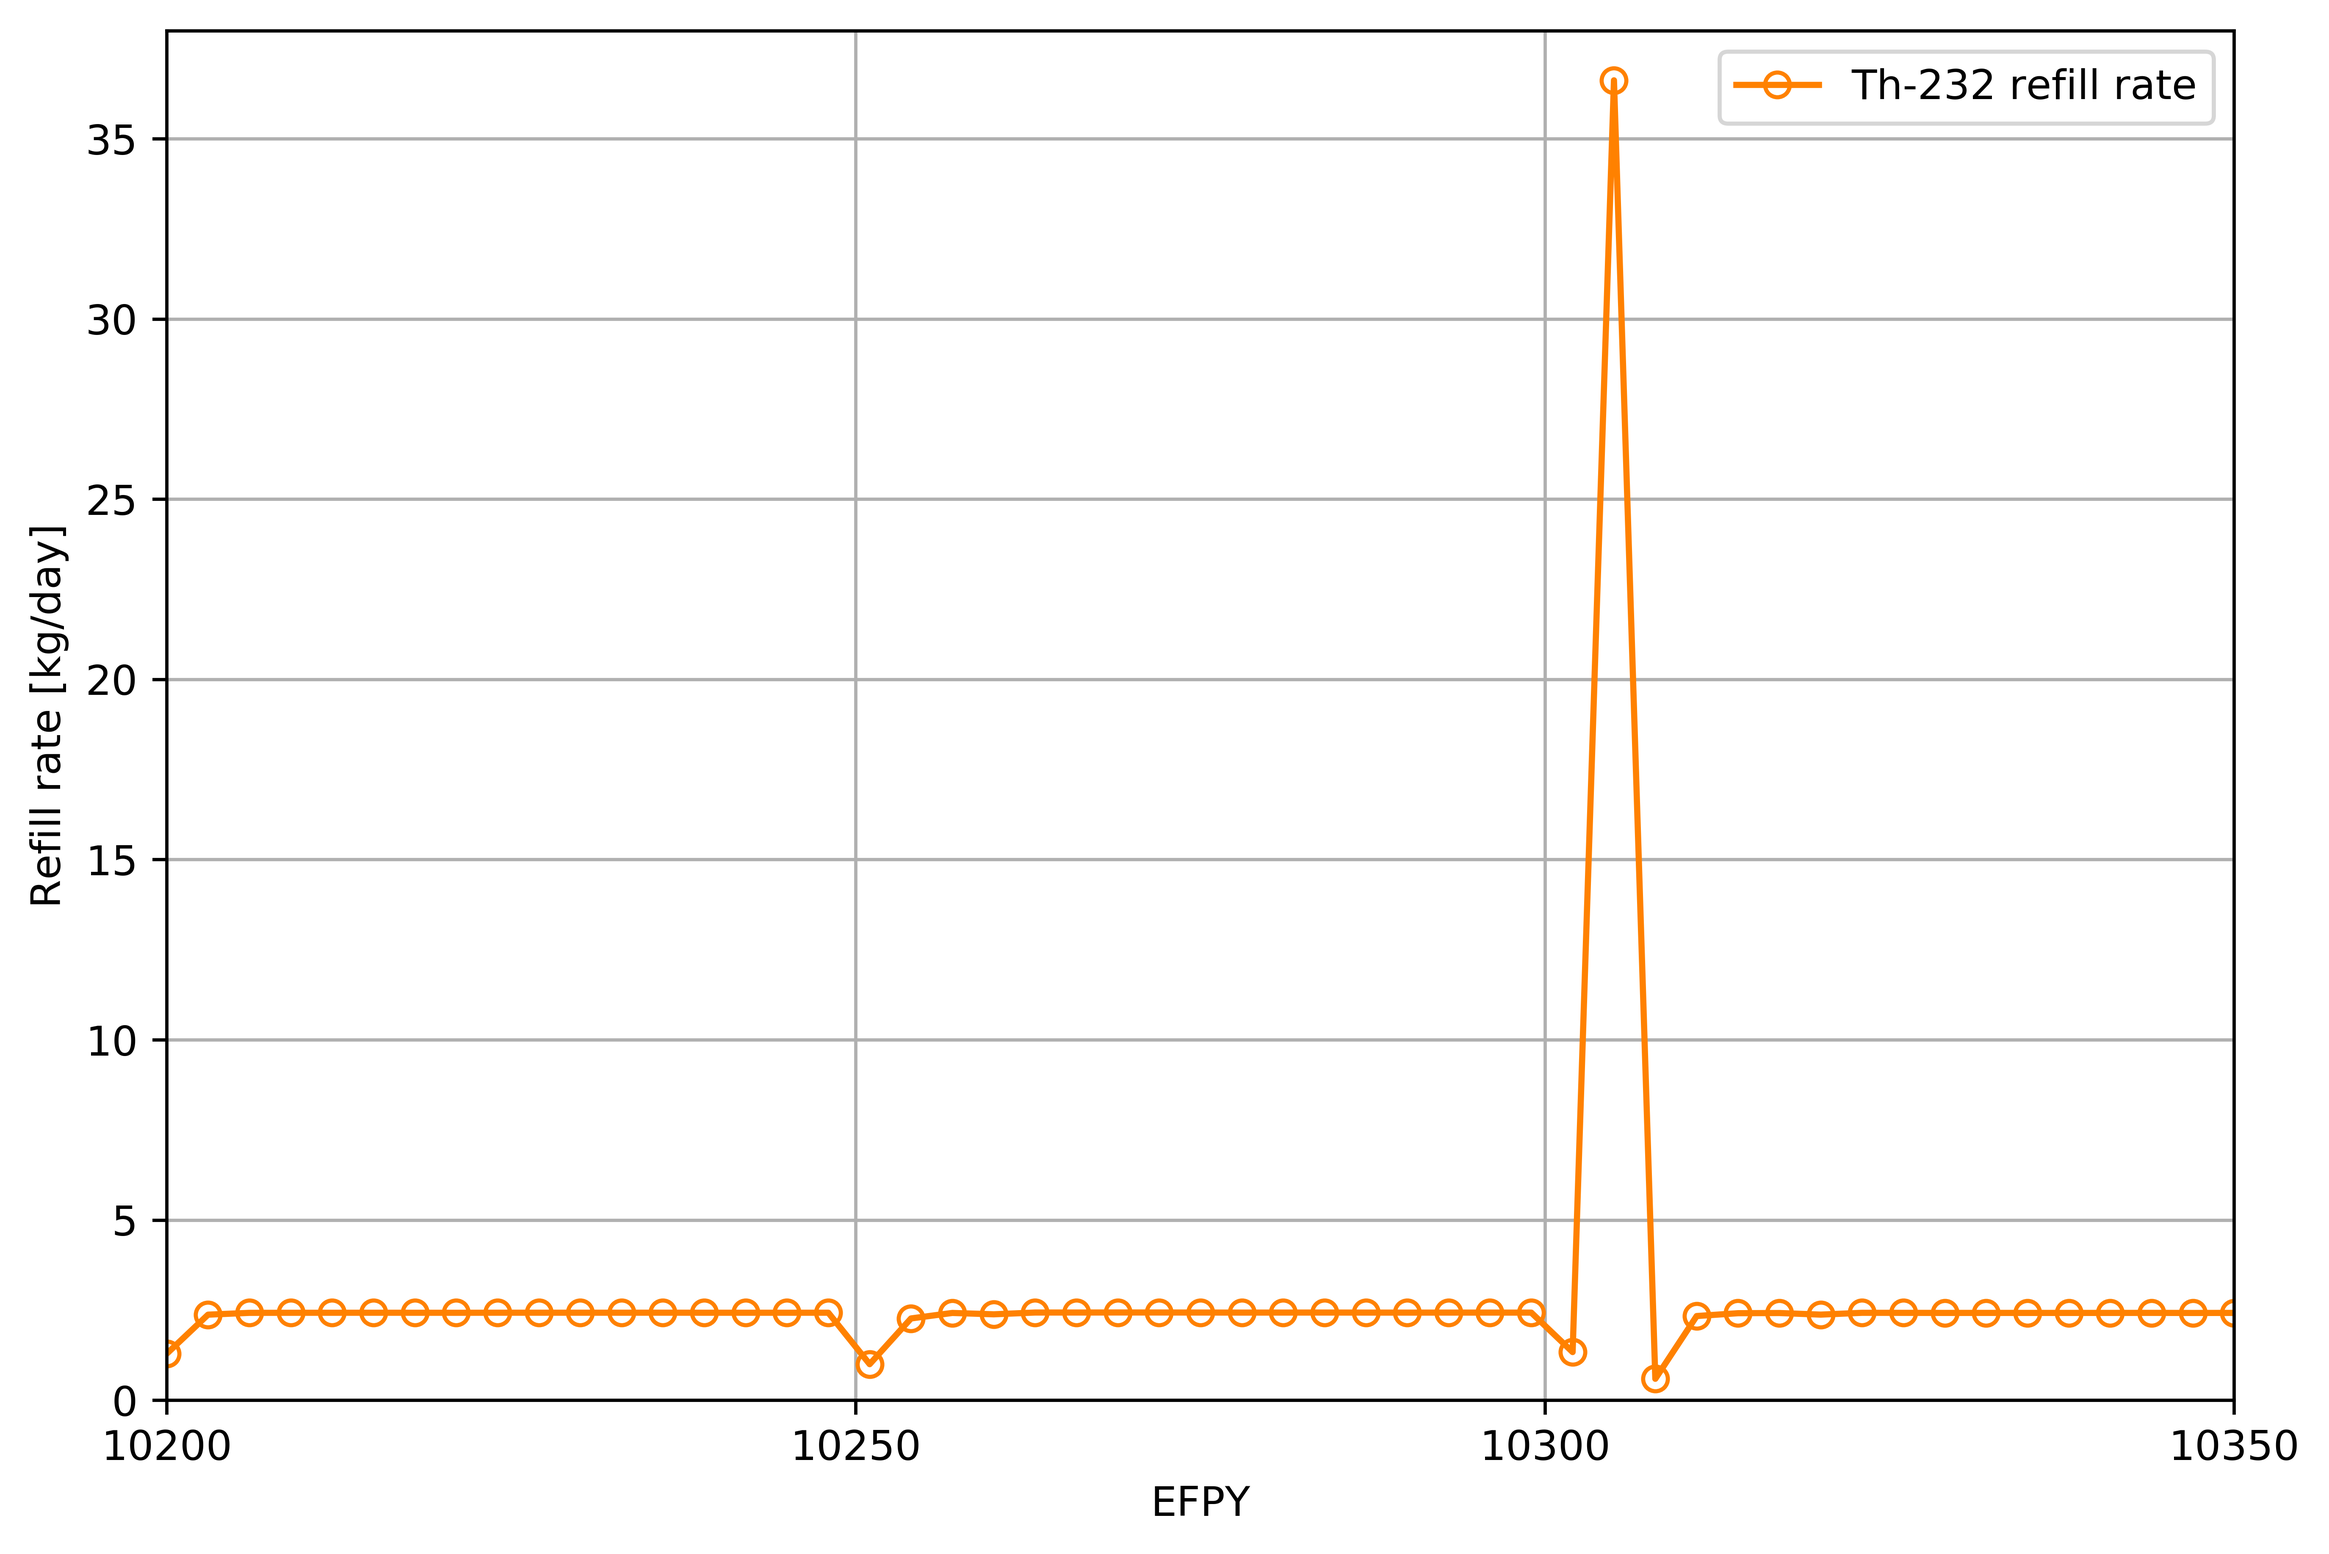
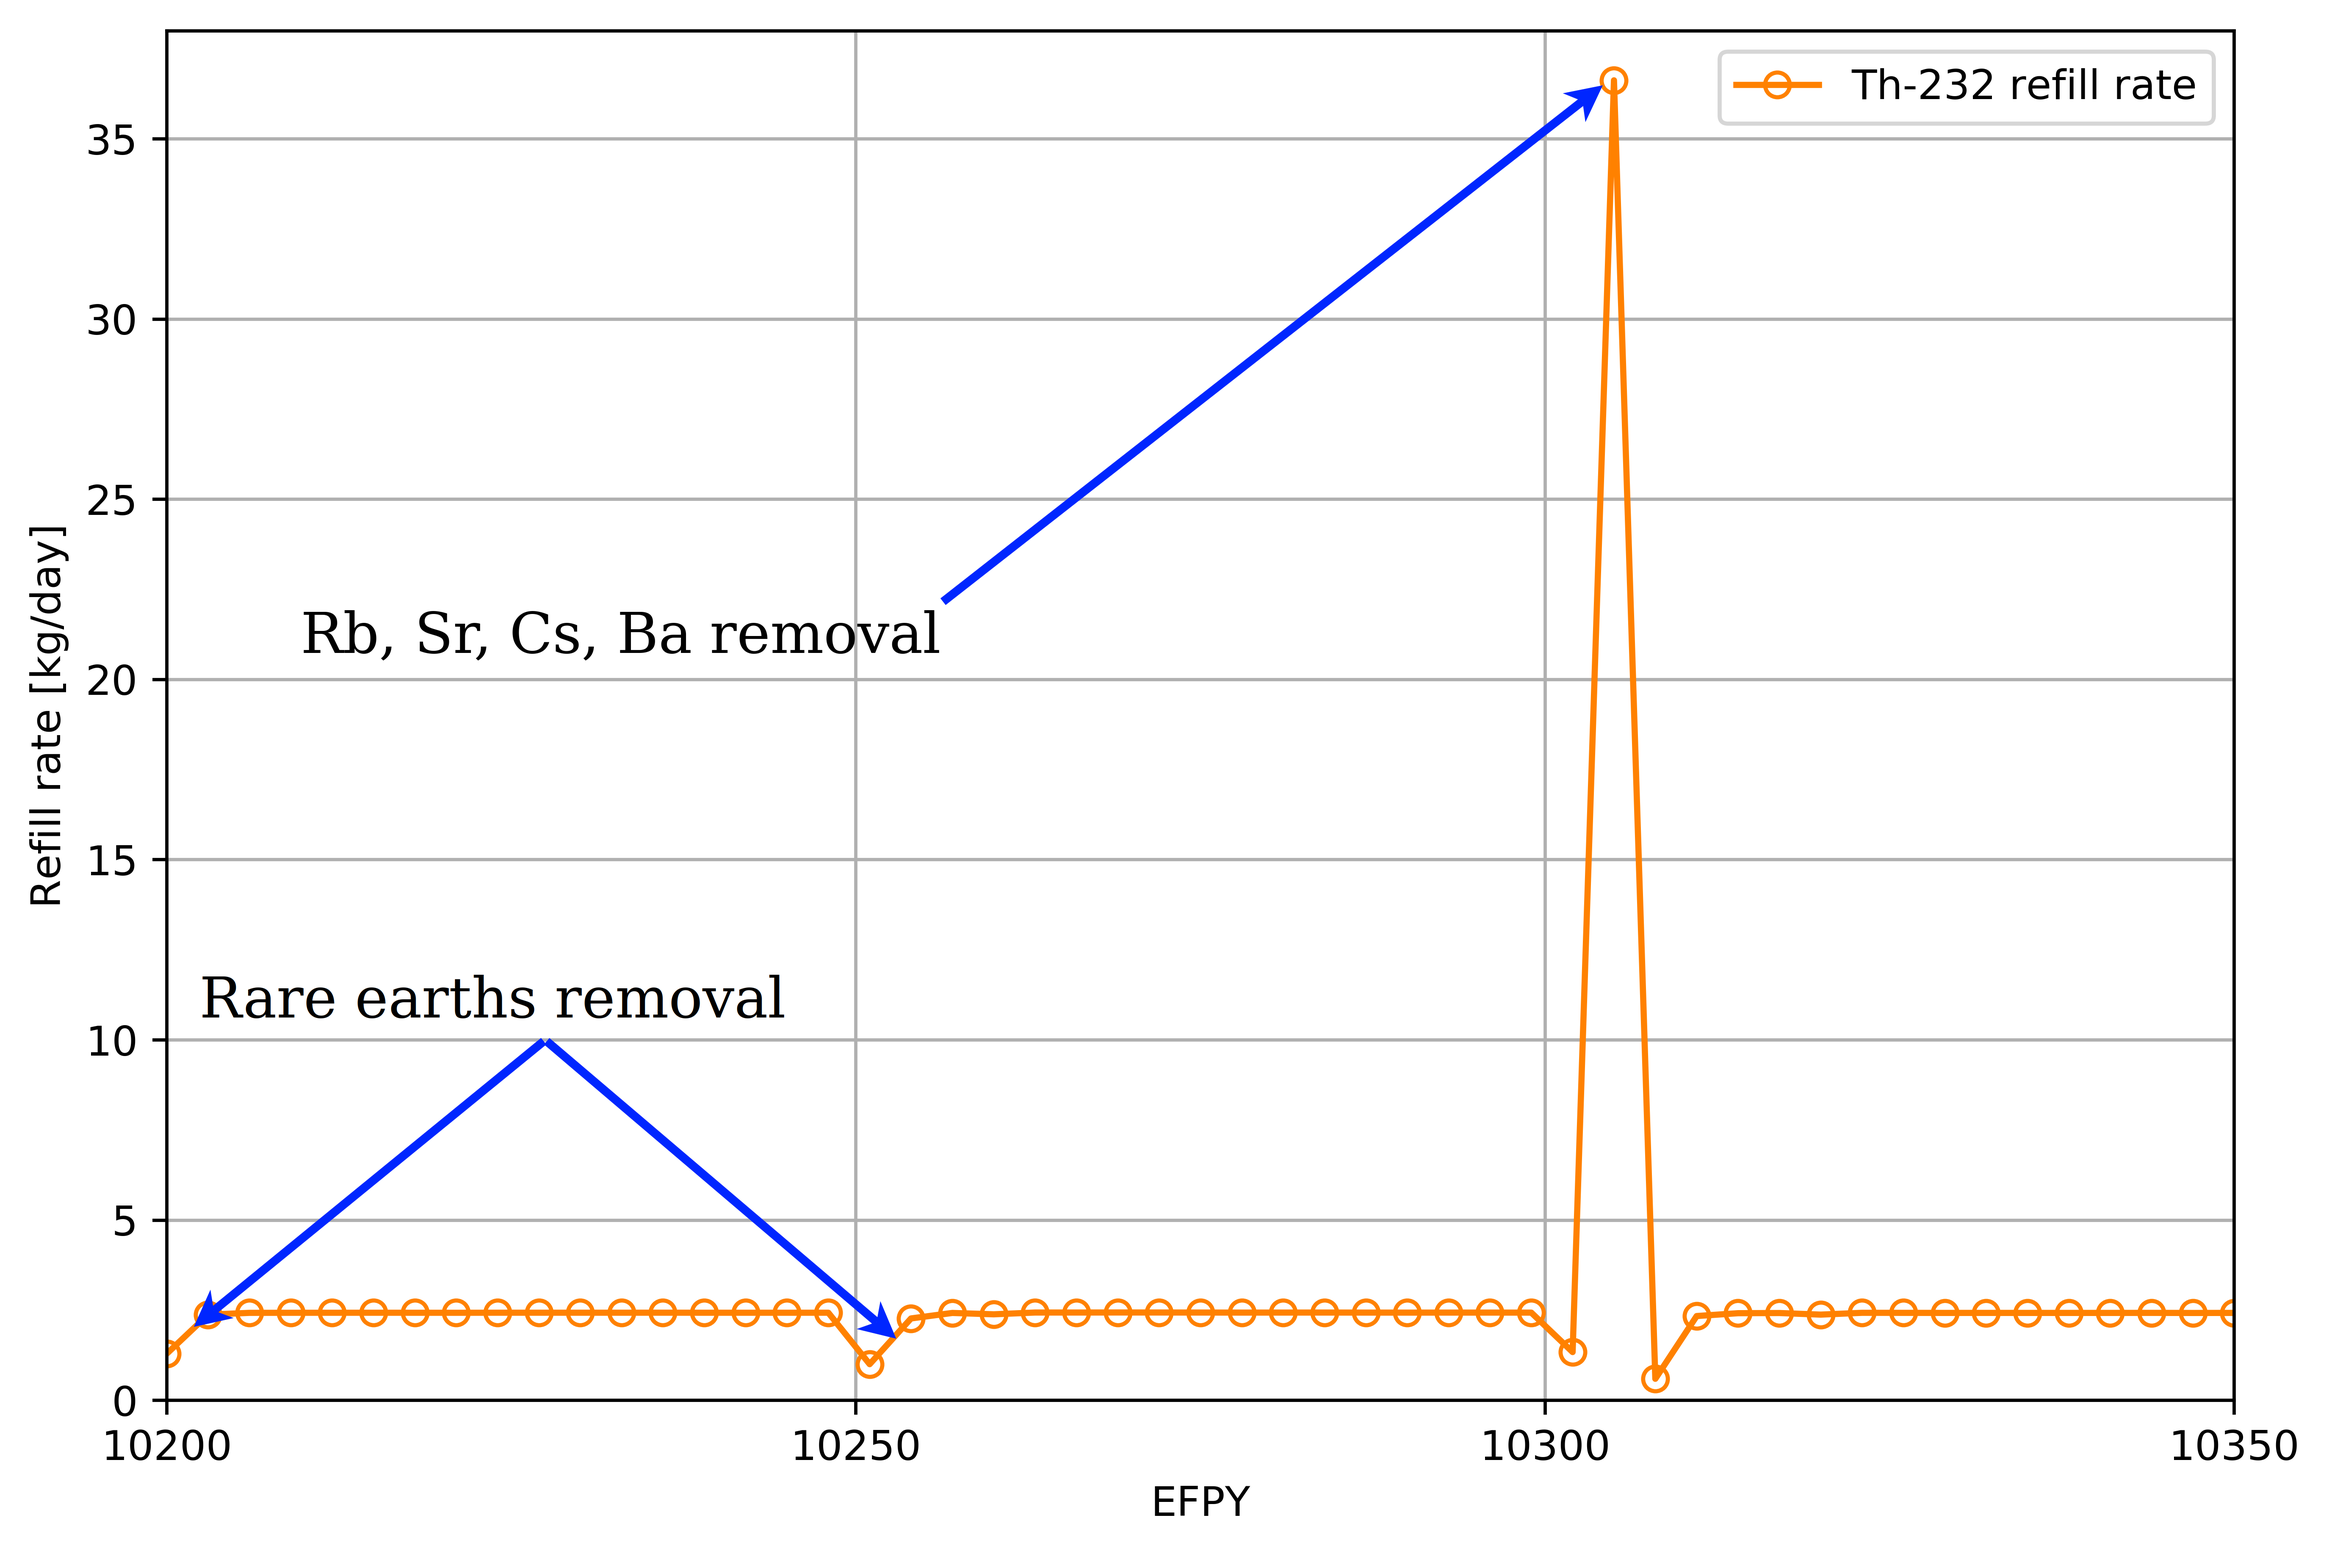
Zoomed TH feed added #33

diff --git a/results.tex b/results.tex
@@ -352,9 +352,11 @@ In a \gls{MSBR} reprocessing scheme, the only external feed material flow  is
 $^{232}$Th. Figure~\ref{fig:th_refill} shows the $^{232}$Th feed rate 
 calculated for 60 years of reactor operation. The $^{232}$Th feed rate 
 fluctuates significantly as a result of the batch-wise nature of this online 
-reprocessing approach. For example, the large spikes of up to 36 kg/day in a 
-thorium consumption occurs every 3435 days. This is required due to batch-wise 
-removal of strong absorbers (Rb, Sr, Cs, Ba). The corresponding effective 
+reprocessing approach. Figure~\ref{fig:th_refill_zoomed} shows zoomed thorium feed 
+rate for short 150-EFPD interval. Note that the large spikes of up to 36 kg/day in a 
+thorium consumption occurs every 3435 days. This is required due to strong absorbers 
+(Rb, Sr, Cs, Ba) removal at the end of effective cycle (100\% of these elements 
+removing every 3435 days of operation). The corresponding effective 
 multiplication factor increase (Figure~\ref{fig:keff}) and breeding 
 intensification leads to additional $^{232}$Th consumption.  
 \begin{figure}[ht!] % replace 't' with 'b' to force it to \centering
@@ -365,7 +367,7 @@ intensification leads to additional $^{232}$Th consumption.
 \begin{figure}[ht!] % replace 't' with 'b' to force it to \centering
   \includegraphics[width=\textwidth]{Th_refill_rate_zoomed.png} \caption{Zoomed $^{232}$Th 
   feed rate for 150-EFPD time interval.}
-  \label{fig:th_refill}
+  \label{fig:th_refill_zoomed}
 \end{figure}
 
 The average thorium feed rate increases during the first 500 days of operation, 
